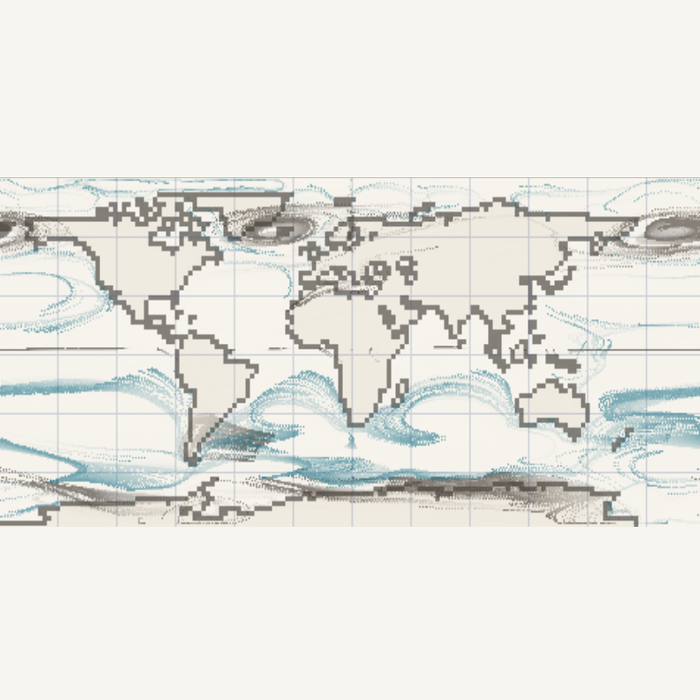
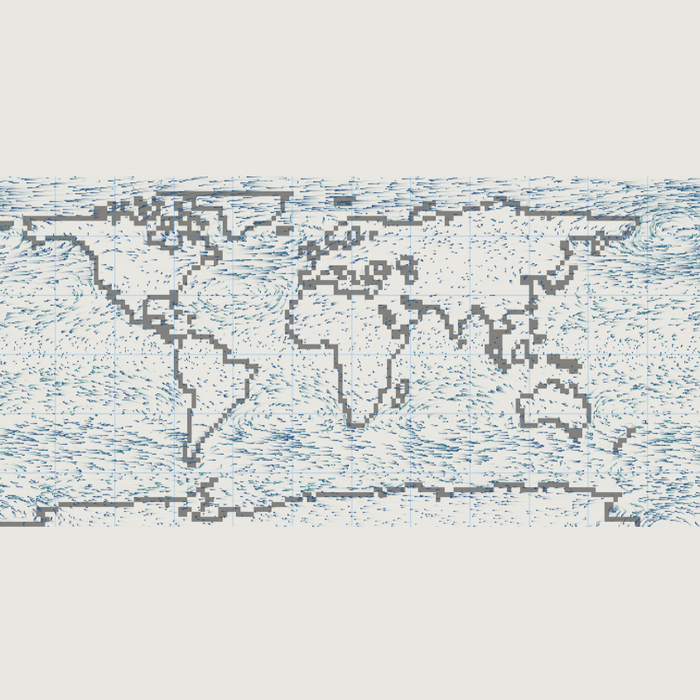
fix(circulation): rebuild the flow map the way the shader actually does it
The rendering was structurally wrong, not just mistuned. The reference flow-map pass keeps ONE particle per screen pixel: the buffer stores that particle's sub-pixel position in xy and its trail value in z; each frame the particle moves by getVelocity() with |v| <= 1 pixel, it dies with p=8e-3 and a brand new one appears in an empty pixel with p=1e-4, and z decays 0.9 per frame while the pixel the particle lands in is set to 1. That is why their streaks are one pixel wide, about ten pixels long and cover the whole globe. Mine were a few hundred long polylines. Rewritten as a numpy cellular particle scheme at 800x360: per-pixel position and density buffers, Poisson-distributed spawns, integer-scatter destination, density decayed 0.9, and the PAPER colour scheme of the shader - paper background, grey coastlines only, graticule, and streaks at the inverted hue (0.1, 0.3, 0.5) with alpha = speed * trail. Frame cost 15.6 ms, down from 39 ms after removing the (H,W,1)-vs-(H,W,3) broadcast in the compositing step.

Changed region(s): [[0.0, 0.24, 1.0, 0.75]]

diff --git a/apps/Physics/Circulation.py b/apps/Physics/Circulation.py
@@ -195,10 +195,11 @@ class Circulation:
 
 
 # ==================== 画布 ====================
-# ==================== 画布 ====================
-class MapCanvas(QWidget):
-    """纸面风格：米白底 + 灰色海岸线 + 逐像素拖尾的细流线（照参考 shader 的做法）。"""
+_STREAK_W = (26.0, 77.0, 128.0)
+_STREAK_O = (24.0, 110.0, 128.0)
 
+
+class MapCanvas(QWidget):
     def __init__(self, app):
         super().__init__()
         self.app = app
@@ -207,26 +208,27 @@ class MapCanvas(QWidget):
     def paintEvent(self, event):
         p = QPainter(self)
         p.setRenderHint(QPainter.SmoothPixmapTransform, True)
-        p.fillRect(self.rect(), QColor(247, 245, 240))
+        p.fillRect(self.rect(), QColor(232, 231, 225))
         app = self.app
         if app.frame is None:
             p.end()
             return
         w, h = self.width(), self.height()
-        scale = min((w - 20) / 2.0, (h - 20) / 1.0)
+        scale = min((w - 16) / 2.0, (h - 16) / 1.0)
         mw, mh = scale * 2.0, scale
         x0 = (w - mw) / 2.0
         y0 = (h - mh) / 2.0
         p.drawImage(QRectF(x0, y0, mw, mh), app.frame)
-        p.setPen(QPen(QColor(120, 120, 126, 120), 1))
-        p.setBrush(Qt.NoBrush)
-        p.drawRect(QRectF(x0, y0, mw, mh))
         p.end()
 
 
 # ==================== 主窗口 ====================
 class CirculationApp(QMainWindow):
-    TW, TH = 480, 216          # 拖尾缓冲分辨率（网格的 3 倍）
+    """照 shadertoy 的 flow map 实现：每个像素最多存一个粒子，粒子每帧移动
+    |v|≤1 像素，拖尾值每帧乘 0.9，粒子落到的像素置 1，最后按参考的 PAPER 配色
+    反相成米白纸面 + 蓝灰细流线。"""
+
+    BW, BH = 800, 360          # 缓冲分辨率（2:1，和地图一致）
 
     def __init__(self):
         super().__init__()
@@ -240,13 +242,20 @@ class CirculationApp(QMainWindow):
         self.show_grid = True
         self.auto_season = True
         self._month_f = 1.0
-        self._rng = np.random.default_rng(11)
+        self._rng = np.random.default_rng(7)
 
         self.frame = None
-        self._base = None                      # 静态底图（纸面 + 海岸线 + 经纬网）
-        self._trail_w = np.zeros((self.TH, self.TW), np.float32)
-        self._trail_o = np.zeros((self.TH, self.TW), np.float32)
-        self._init_particles()
+        self._base = None
+        self._dens_w = np.zeros((self.BH, self.BW), np.float32)
+        self._dens_o = np.zeros((self.BH, self.BW), np.float32)
+        self._buf_i = np.full((self.BH, self.BW), -1.0, np.float32)
+        self._buf_j = np.full((self.BH, self.BW), -1.0, np.float32)
+        self._px_w = np.full((self.BH, self.BW), -1.0, np.float32)
+        self._py_w = np.full((self.BH, self.BW), -1.0, np.float32)
+        self._px_o = np.full((self.BH, self.BW), -1.0, np.float32)
+        self._py_o = np.full((self.BH, self.BW), -1.0, np.float32)
+
+        self._build_velocity()
         self._build_base()
 
         self.init_ui()
@@ -256,131 +265,132 @@ class CirculationApp(QMainWindow):
         self._t_prev = time.perf_counter()
         self._fps = 0.0
 
-    # ---------- 粒子 ----------
-    def _init_particles(self):
-        oy, ox = np.nonzero(self.model.ocean)
-        n_w, n_o = 7000, 2500
-        wi = self._rng.integers(0, len(ox), n_w)
-        self.wx = ox[wi].astype(np.float64) + self._rng.random(n_w)
-        self.wy = oy[wi].astype(np.float64) + self._rng.random(n_w)
-        oi = self._rng.integers(0, len(ox), n_o)
-        self.oxp = ox[oi].astype(np.float64) + self._rng.random(n_o)
-        self.oyp = oy[oi].astype(np.float64) + self._rng.random(n_o)
-        self._oy, self._ox = oy, ox
+    # ---------- 速度场放大到缓冲分辨率 ----------
+    def _build_velocity(self):
+        wx, wy = self.model.wind
+        ou = np.where(self.model.land, 0.0, self.model.ocean_u)
+        ov = np.where(self.model.land, 0.0, self.model.ocean_v)
 
-    def _respawn(self, arr_x, arr_y, n, ocean_only=False):
-        idx = self._rng.integers(0, len(self._ox), n)
-        arr_x[:] = self._ox[idx] + self._rng.random(n)
-        arr_y[:] = self._oy[idx] + self._rng.random(n)
+        def up(f):
+            # 模型第 0 行是南极；缓冲第 0 行是北，所以先翻转
+            g = np.flipud(f)
+            ys = (np.arange(self.BH) * g.shape[0] / self.BH).astype(np.int32)
+            xs = (np.arange(self.BW) * g.shape[1] / self.BW).astype(np.int32)
+            return g[np.clip(ys, 0, g.shape[0] - 1)][:, np.clip(xs, 0, g.shape[1] - 1)]
 
-    def _advect(self, dt):
-        self.wx_prev = self.wx.copy()
-        self.wy_prev = self.wy.copy()
-        self.ox_prev = self.oxp.copy()
-        self.oy_prev = self.oyp.copy()
-        sp = 1.35 * dt
-        # 风
-        u, v = self.model.wind
-        wu = _bilinear(u, self.wx, self.wy)
-        wv = _bilinear(v, self.wx, self.wy)
-        wu, wv = _display_speed(wu, wv, 2.2)
-        self.wx = np.mod(self.wx + wu * sp, W)
-        self.wy = np.clip(self.wy + wv * sp, 0.4, H - 1.4)
-        bad = np.nonzero((self._rng.random(len(self.wx)) < 0.004)
-                         | (self.wy <= 0.41) | (self.wy >= H - 1.41))[0]
-        if len(bad):
-            self._respawn(self.wx[bad], self.wy[bad], len(bad))
-        # 洋流
-        cu = _bilinear(self.model.ocean_u, self.oxp, self.oyp)
-        cv = _bilinear(self.model.ocean_v, self.oxp, self.oyp)
-        cu, cv = _display_speed(cu, cv, 1.6)
-        self.oxp = np.mod(self.oxp + cu * sp, W)
-        self.oyp = np.clip(self.oyp + cv * sp, 0.6, H - 1.6)
-        ix = self.oxp.astype(np.int32) % W
-        iy = np.clip(self.oyp.astype(np.int32), 0, H - 1)
-        bad = np.nonzero((self._rng.random(len(self.oxp)) < 0.003)
-                         | self.model.land[iy, ix])[0]
-        if len(bad):
-            self._respawn(self.oxp[bad], self.oyp[bad], len(bad))
+        # 参考里 getVelocity 把速度归一到 ≤1 像素/帧
+        def norm(u, v, ref):
+            mag = np.hypot(u, v)
+            k = np.clip(mag / max(1e-6, ref), 0.0, 1.0) / np.maximum(mag, 1e-6)
+            return (u * k).astype(np.float32), (v * k).astype(np.float32)
 
-    # ---------- 拖尾 ----------
-    def _splat(self, buf, xs, ys, xp, yp, k=2):
-        """把粒子打进拖尾缓冲；沿上一帧到这一帧的线段插值，流线才连续。
-
-        模型第 0 行是南极，写进缓冲时要翻过来。
-        """
-        buf *= 0.88
-        for i in range(k):
-            f = i / float(k)
-            xa = xp + (xs - xp) * f
-            ya = yp + (ys - yp) * f
-            tx = np.clip((xa / W * self.TW).astype(np.int32), 0, self.TW - 1)
-            ty = np.clip(((H - 1 - ya) / H * self.TH).astype(np.int32), 0, self.TH - 1)
-            np.maximum.at(buf, (ty, tx), 1.0)
+        vxu, vyu = norm(up(wx), up(wy), np.percentile(np.hypot(wx, wy), 90))
+        vox, voy = norm(up(ou), up(ov), max(1e-6, np.percentile(np.hypot(ou, ov), 90)))
+        # 缓冲 y 向下，模型 v 向北 → 取负
+        self._vx_w, self._vy_w = vxu * 1.0, -vyu * 1.0
+        self._vx_o, self._vy_o = vox * 0.9, -voy * 0.9
+        self._ocean_mask = up(self.model.ocean.astype(np.float32))
 
     # ---------- 静态底图 ----------
     def _build_base(self):
-        land = np.flipud(self.model.land)
-        p = np.flipud(self.model.p)
-        TH, TW = self.TH, self.TW
-
-        paper = np.array([247, 244, 237], np.float32)
-        land_tint = np.array([240, 235, 224], np.float32)
-        rgb = np.where(_upsample_mask(land, TH, TW)[..., None], land_tint, paper)
+        BH, BW = self.BH, self.BW
+        paper = np.array([232, 231, 225], np.float32)
+        rgb = np.tile(paper, (BH, BW, 1))
 
         if self.show_pressure:
-            # 参考 shader 的画法：低压蓝、高压橙，叠在纸面上
-            lo = np.clip((1012.0 - p) / 12.0, 0.0, 1.0)[..., None]
-            hi = np.clip((p - 1012.0) / 12.0, 0.0, 1.0)[..., None]
-            low_c = np.array([0.0, 0.5, 1.0], np.float32) * 255.0
-            high_c = np.array([1.0, 0.5, 0.0], np.float32) * 255.0
-            tint = low_c * lo + high_c * hi
-            amt = (0.5 * (lo + hi))
-            mask = _upsample_mask(np.ones_like(p, bool), TH, TW)[..., None]
-            rgb = np.where(mask, rgb * (1 - amt) + tint * amt, rgb)
-            # 等压线
-            iso = np.zeros_like(p)
-            for lv in np.arange(984.0, 1046.0, 4.0):
-                iso = np.maximum(iso, np.clip(1.0 - np.abs(p - lv) / 0.5, 0.0, 1.0))
-            iso_big = _upsample_f(iso, TH, TW)[..., None]
-            rgb = rgb * (1 - 0.5 * iso_big) + np.array([40, 40, 44], np.float32) * (0.5 * iso_big)
+            p = np.flipud(self.model.p)
+            ys = (np.arange(BH) * p.shape[0] / BH).astype(np.int32)
+            xs = (np.arange(BW) * p.shape[1] / BW).astype(np.int32)
+            pb = p[np.clip(ys, 0, p.shape[0] - 1)][:, np.clip(xs, 0, p.shape[1] - 1)]
+            low = np.clip((1012.0 - pb) / 12.0, 0, 1)[..., None]
+            high = np.clip((pb - 1012.0) / 12.0, 0, 1)[..., None]
+            tint = np.array([0, 128, 255], np.float32) * low + np.array([255, 128, 0], np.float32) * high
+            amt = np.clip((low + high) * 0.5, 0, 1)
+            rgb = rgb * (1 - amt) + tint * amt
 
-        # 海岸线：land 与周围不同处
+        # 海岸线：只有轮廓是灰的，和参考一致
+        land = np.flipud(self.model.land)
         coast = np.zeros_like(land)
         coast[1:, :] |= land[1:, :] != land[:-1, :]
         coast[:, 1:] |= land[:, 1:] != land[:, :-1]
-        coast_big = _upsample_mask(coast, TH, TW)[..., None]
-        rgb = rgb * (1 - 0.8 * coast_big) + np.array([104, 100, 94], np.float32) * (0.8 * coast_big)
+        ys = (np.arange(BH) * land.shape[0] / BH).astype(np.int32)
+        xs = (np.arange(BW) * land.shape[1] / BW).astype(np.int32)
+        cb = coast[np.clip(ys, 0, coast.shape[0] - 1)][:, np.clip(xs, 0, coast.shape[1] - 1)]
+        cb = cb[..., None].astype(np.float32)
+        rgb = rgb * (1 - 0.9 * cb) + np.array([120, 118, 114], np.float32) * (0.9 * cb)
 
         if self.show_grid:
-            g = np.zeros((TH, TW), np.float32)
+            g = np.zeros((BH, BW), np.float32)
             for k in range(1, 12):
-                g[:, int(TW * k / 12)] = 1.0
+                g[:, int(BW * k / 12)] = 1.0
             for k in range(1, 6):
-                g[int(TH * k / 6), :] = 1.0
-            g = _upsample_f(g, TH, TW)[..., None]
-            rgb = rgb * (1 - 0.22 * g) + np.array([60, 90, 150], np.float32) * (0.22 * g)
+                g[int(BH * k / 6), :] = 1.0
+            g = g[..., None]
+            rgb = np.where(g > 0, rgb * 0.8 + np.array([0, 128, 255], np.float32) * 0.2, rgb)
 
         self._base = np.clip(rgb, 0, 255).astype(np.uint8)
-        self._ocean_mask = _upsample_mask(np.flipud(self.model.ocean), TH, TW)[..., None].astype(np.float32)
+        self._base_f = self._base.astype(np.float32)
+        self._compose_buf = np.empty((BH, BW, 3), np.float32)
+        self._compose_u8 = np.empty((BH, BW, 3), np.uint8)
+
+    # ---------- 粒子推进（照 getPosition 的规则） ----------
+    def _step_particles(self, vx, vy, px, py, dens, spawn, die):
+        """每个像素最多一个粒子；粒子一步移动 |v|≤1 像素，拖尾 0.9 衰减。"""
+        BH, BW = self.BH, self.BW
+        alive = px >= 0
+        ys, xs = np.nonzero(alive)
+        new_px = np.full((BH, BW), -1.0, np.float32)
+        new_py = np.full((BH, BW), -1.0, np.float32)
+
+        if len(ys):
+            keep = self._rng.random(len(ys)) > die
+            ys, xs = ys[keep], xs[keep]
+            nx = np.mod(px[ys, xs] + vx[ys, xs], BW)
+            ny = np.clip(py[ys, xs] + vy[ys, xs], 0, BH - 1)
+            tx = np.clip(nx.astype(np.int32), 0, BW - 1)
+            ty = np.clip(ny.astype(np.int32), 0, BH - 1)
+            new_px[ty, tx] = nx
+            new_py[ty, tx] = ny
+
+        # 空白像素里稀疏地诞生新粒子（用泊松抽样，避免每帧生成整屏随机数）
+        empty = (new_px < 0).sum()
+        k = self._rng.poisson(spawn * empty)
+        if k > 0:
+            cy = self._rng.integers(0, BH, k)
+            cx = self._rng.integers(0, BW, k)
+            new_px[cy, cx] = cx + self._rng.random(k)
+            new_py[cy, cx] = cy + self._rng.random(k)
+
+        dens *= 0.90
+        dens[new_px >= 0] = 1.0
+        return new_px, new_py, dens
 
     # ---------- 合成 ----------
     def _compose(self):
-        out = self._base.astype(np.float32)
+        out = self._compose_buf
+        out[:] = self._base_f
+        # 逐通道就地混合，(H,W,1) 广播到 (H,W,3) 太慢
         if self.show_wind:
-            a = np.clip(self._trail_w, 0, 1)[..., None] * 0.62
-            out = out * (1 - a) + np.array([66, 58, 50], np.float32) * a
+            a = self._dens_w
+            inv = 1.0 - a
+            for c in range(3):
+                ch = out[:, :, c]
+                ch *= inv
+                ch += _STREAK_W[c] * a
         if self.show_ocean:
-            a = np.clip(self._trail_o, 0, 1)[..., None] * 0.55 * self._ocean_mask
-            out = out * (1 - a) + np.array([18, 108, 132], np.float32) * a
-        img = np.clip(out, 0, 255).astype(np.uint8)
-        self.frame = QImage(np.ascontiguousarray(img).data, self.TW, self.TH,
-                            self.TW * 3, QImage.Format_RGB888).copy()
+            a = self._dens_o * 0.9 * self._ocean_mask
+            inv = 1.0 - a
+            for c in range(3):
+                ch = out[:, :, c]
+                ch *= inv
+                ch += _STREAK_O[c] * a
+        self._compose_u8[:] = np.clip(out, 0, 255)
+        self.frame = QImage(self._compose_u8.data, self.BW, self.BH,
+                            self.BW * 3, QImage.Format_RGB888).copy()
 
     # ---------- 循环 ----------
     def tick(self):
         now = time.perf_counter()
-        dt = min(3.0, max(0.2, (now - self._t_prev) * 60.0))
         self._fps = 0.9 * self._fps + 0.1 * (1.0 / max(1e-3, now - self._t_prev))
         self._t_prev = now
 
@@ -391,19 +401,22 @@ class CirculationApp(QMainWindow):
             m = int(round(self._month_f))
             if m != self.model.month:
                 self.model.update(m)
+                self._build_velocity()
                 self._build_base()
                 if hasattr(self, "lbl_month"):
                     self.lbl_month.setText(f"{m} 月")
 
-        self._advect(dt)
         if self.show_wind:
-            self._splat(self._trail_w, self.wx, self.wy, self.wx_prev, self.wy_prev)
+            self._px_w, self._py_w, self._dens_w = self._step_particles(
+                self._vx_w, self._vy_w, self._px_w, self._py_w, self._dens_w, 1.6e-4, 5e-3)
         else:
-            self._trail_w *= 0.88
+            self._dens_w *= 0.9
         if self.show_ocean:
-            self._splat(self._trail_o, self.oxp, self.oyp, self.ox_prev, self.oy_prev)
+            self._px_o, self._py_o, self._dens_o = self._step_particles(
+                self._vx_o, self._vy_o, self._px_o, self._py_o, self._dens_o, 8e-5, 6e-3)
         else:
-            self._trail_o *= 0.88
+            self._dens_o *= 0.9
+
         self._compose()
         self.canvas.update()
         if hasattr(self, "lbl_fps"):
@@ -487,7 +500,7 @@ class CirculationApp(QMainWindow):
         rv.addWidget(self.canvas, 1)
         root.addWidget(right, 1)
 
-        self.lbl_status = QLabel("白色为纸面，深色细线为风，青色为洋流；勾选「气压分布」可看高压/低压区")
+        self.lbl_status = QLabel("细线是气流（每像素一个粒子，一步移动不到一格，拖尾 0.9 衰减）")
         self.statusBar().addWidget(self.lbl_status, 1)
         self.lbl_fps = QLabel("–")
         self.lbl_fps.setMinimumWidth(70)
@@ -498,9 +511,9 @@ class CirculationApp(QMainWindow):
         self.chk_auto.setChecked(False)
         self._month_f = float(v)
         self.model.update(int(v))
+        self._build_velocity()
         self._build_base()
         self.lbl_month.setText(f"{v} 月")
-        self._compose()
         self.canvas.update()
 
     def _on_auto(self, on):
@@ -513,27 +526,15 @@ class CirculationApp(QMainWindow):
         self.canvas.update()
 
     def _reseed(self):
-        self._init_particles()
-        self._trail_w[:] = 0
-        self._trail_o[:] = 0
+        for a in ("_px_w", "_py_w", "_px_o", "_py_o"):
+            getattr(self, a)[:] = -1
+        self._dens_w[:] = 0
+        self._dens_o[:] = 0
         self.canvas.update()
 
     def closeEvent(self, event):
         self.timer.stop()
         super().closeEvent(event)
-
-
-def _upsample_f(a, th, tw):
-    """把小网格放大到拖尾缓冲尺寸（最近邻即可，底图本身会被再缩放着色）。"""
-    ys = (np.arange(th) * a.shape[0] / th).astype(np.int32)
-    xs = (np.arange(tw) * a.shape[1] / tw).astype(np.int32)
-    return a[np.clip(ys, 0, a.shape[0] - 1)][:, np.clip(xs, 0, a.shape[1] - 1)]
-
-
-def _upsample_mask(a, th, tw):
-    ys = (np.arange(th) * a.shape[0] / th).astype(np.int32)
-    xs = (np.arange(tw) * a.shape[1] / tw).astype(np.int32)
-    return a[np.clip(ys, 0, a.shape[0] - 1)][:, np.clip(xs, 0, a.shape[1] - 1)]
 
 
 if __name__ == "__main__":
